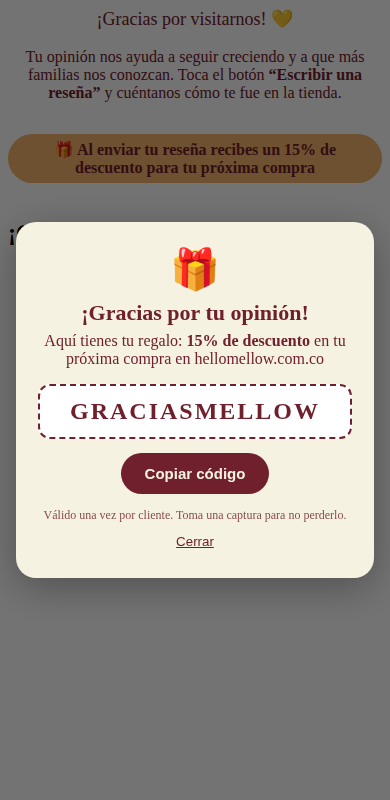
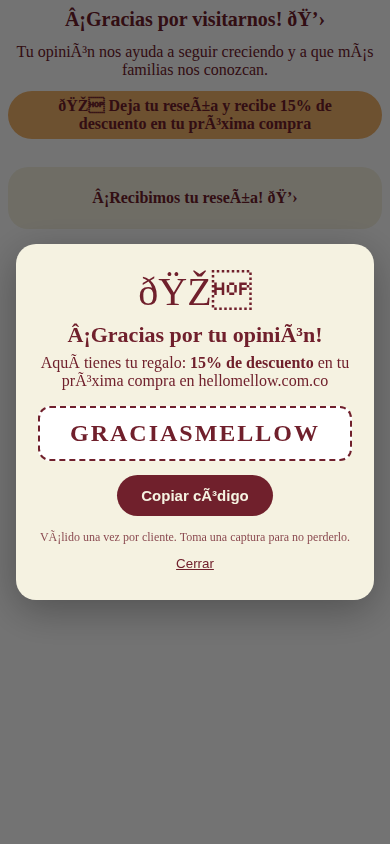
Página /opina: formulario propio de reseña con cupón garantizado
Claude-Session: https://claude.ai/code/session_014kLtJy3k3htoMbeUsWCqSX

Changed region(s): [[0.0, 0.0, 0.9846, 0.4688], [0.0308, 0.5, 0.9538, 0.75], [0.0308, 0.0312, 0.0615, 0.0625]]

diff --git a/referencia/pagina-opina.html b/referencia/pagina-opina.html
@@ -1,10 +1,48 @@
-<div style="text-align:center;max-width:560px;margin:0 auto;color:#70202c">
-<p style="font-size:18px">¡Gracias por visitarnos! 💛</p>
-<p>Tu opinión nos ayuda a seguir creciendo y a que más familias nos conozcan. Toca el botón <strong>“Escribir una reseña”</strong> y cuéntanos cómo te fue en la tienda.</p>
-<p style="background:#F2B36A;color:#70202c;display:inline-block;padding:6px 16px;border-radius:99px;font-weight:700">🎁 Al enviar tu reseña recibes un 15% de descuento para tu próxima compra</p>
+<style>
+.hm-op{max-width:520px;margin:0 auto;color:#70202c;text-align:center}
+.hm-op p{margin:0 0 12px}
+.hm-card{background:#F5F2E1;border-radius:20px;padding:22px 18px;margin-top:16px;text-align:left}
+.hm-card label{display:block;font-weight:700;margin:14px 0 6px}
+.hm-card input[type=text],.hm-card input[type=email],.hm-card textarea{width:100%;box-sizing:border-box;border:1px solid #d9cfc0;border-radius:12px;padding:12px;font-size:16px;background:#fff;color:#222}
+.hm-card textarea{min-height:110px;resize:vertical}
+.hm-stars{display:flex;flex-direction:row-reverse;justify-content:center;gap:6px}
+.hm-stars input{position:absolute;opacity:0;width:1px;height:1px}
+.hm-stars label{font-size:44px;line-height:1;color:#d9cfc0;cursor:pointer;margin:0;font-weight:400}
+.hm-stars input:checked~label,.hm-stars label:hover,.hm-stars label:hover~label{color:#F2B36A}
+.hm-btn{display:block;width:100%;margin-top:18px;background:#70202c;color:#F5F2E1;border:0;border-radius:99px;padding:15px;font-size:17px;font-weight:700;cursor:pointer}
+.hm-btn[disabled]{opacity:.6}
+.hm-err{color:#b00020;font-size:14px;margin-top:8px;display:none;text-align:center}
+.hm-pill{background:#F2B36A;display:inline-block;padding:6px 16px;border-radius:99px;font-weight:700}
+.template-page .jdgm-write-rev-link,.template-page .jdgm-rev-widg__header .jdgm-write-rev-link,.template-page [class*="write-review-button"],.template-page [class*="jdgm-write-review"]{display:none!important}
+</style>
+<div class="hm-op">
+<p style="font-size:20px;font-weight:700">¡Gracias por visitarnos! 💛</p>
+<p>Tu opinión nos ayuda a seguir creciendo y a que más familias nos conozcan.</p>
+<p class="hm-pill">🎁 Deja tu reseña y recibe 15% de descuento en tu próxima compra</p>
+<form id="hm-form" class="hm-card" method="post" action="/contact#hm-form" accept-charset="UTF-8">
+<input type="hidden" name="form_type" value="contact"><input type="hidden" name="utf8" value="✓">
+<input type="hidden" name="contact[tags]" value="resena-tienda">
+<input type="hidden" name="contact[body]" id="hm-body">
+<label style="text-align:center">¿Cómo calificarías tu visita?</label>
+<div class="hm-stars">
+<input type="radio" name="hm-r" id="hm-r5" value="5"><label for="hm-r5" title="5">★</label>
+<input type="radio" name="hm-r" id="hm-r4" value="4"><label for="hm-r4" title="4">★</label>
+<input type="radio" name="hm-r" id="hm-r3" value="3"><label for="hm-r3" title="3">★</label>
+<input type="radio" name="hm-r" id="hm-r2" value="2"><label for="hm-r2" title="2">★</label>
+<input type="radio" name="hm-r" id="hm-r1" value="1"><label for="hm-r1" title="1">★</label>
+</div>
+<label for="hm-txt">Cuéntanos tu experiencia</label>
+<textarea id="hm-txt" placeholder="¿Qué fue lo que más te gustó?" required></textarea>
+<label for="hm-name">Tu nombre</label>
+<input type="text" id="hm-name" name="contact[name]" required>
+<label for="hm-email">Tu correo</label>
+<input type="email" id="hm-email" name="contact[email]" required placeholder="No se publicará">
+<button type="submit" class="hm-btn" id="hm-send">Enviar reseña</button>
+<div class="hm-err" id="hm-err"></div>
+</form>
 </div>
 <div id="hm-cupon" style="display:none;position:fixed;inset:0;z-index:2147483647;background:rgba(0,0,0,.55);align-items:center;justify-content:center;padding:16px">
-<div style="background:#F5F2E1;color:#70202c;max-width:380px;width:100%;border-radius:20px;padding:28px 22px;text-align:center;font-family:inherit;box-shadow:0 10px 40px rgba(0,0,0,.3)">
+<div style="background:#F5F2E1;color:#70202c;max-width:380px;width:100%;border-radius:20px;padding:28px 22px;text-align:center;box-shadow:0 10px 40px rgba(0,0,0,.3)">
 <div style="font-size:40px;line-height:1">🎁</div>
 <p style="font-size:22px;font-weight:700;margin:10px 0 6px">¡Gracias por tu opinión!</p>
 <p style="margin:0 0 16px">Aquí tienes tu regalo: <strong>15% de descuento</strong> en tu próxima compra en hellomellow.com.co</p>
@@ -17,25 +55,25 @@
 <script>
 (function(){
   var c=[71,82,65,67,73,65,83,77,69,76,76,79,87].map(function(n){return String.fromCharCode(n)}).join('');
-  var re=/gracias por tu rese(ñ|n)a|rese(ñ|n)a enviada|tu rese(ñ|n)a se publicar|thank you for your review|review submitted/i;
-  var done=false, armed=false, box=document.getElementById('hm-cupon');
-  function show(){if(done)return;done=true;document.getElementById('hm-code').textContent=c;box.style.display='flex';}
-  function later(){setTimeout(show,1500);}
-  function isRev(u,m,b){u=String(u||'');m=String(m||'GET').toUpperCase();if(m!=='POST')return false;if(!/judge|jdgm/i.test(u))return false;if(/vote|helpful|impression|event|track|analytic|question|metric|log|upload|media/i.test(u))return false;return /review/i.test(u)||/review/i.test(String(b||'').slice(0,3000));}
-  /* fetch */
-  if(window.fetch){var of=window.fetch;window.fetch=function(a,o){var u=(a&&a.url)||a,m=(o&&o.method)||(a&&a.method),b=o&&o.body,hit=false;try{hit=isRev(u,m,typeof b==='string'?b:'')}catch(e){}var r=of.apply(this,arguments);if(hit)r.then(function(x){if(x&&x.ok)later();}).catch(function(){});return r;};}
-  /* XHR */
-  var X=XMLHttpRequest.prototype,oo=X.open,os=X.send;
-  X.open=function(m,u){this._hm=[m,u];return oo.apply(this,arguments);};
-  X.send=function(b){var x=this;try{if(x._hm&&isRev(x._hm[1],x._hm[0],typeof b==='string'?b:'')){x.addEventListener('load',function(){if(x.status>=200&&x.status<300)later();});}}catch(e){}return os.apply(this,arguments);};
-  /* mensajes de iframes de Judge.me */
-  window.addEventListener('message',function(e){try{if(!/judge\.me|judgeme/i.test(e.origin||''))return;var d=typeof e.data==='string'?e.data:JSON.stringify(e.data);if(/review/i.test(d)&&/submit|success|created|complete/i.test(d))later();}catch(x){}});
-  /* respaldo: mensaje de gracias visible en pantalla despues de escribir */
-  document.addEventListener('input',function(e){var t=(e.composedPath&&e.composedPath()[0])||e.target;if(t&&/TEXTAREA|INPUT/.test(t.nodeName))armed=true;},true);
-  function vis(el){if(!el)return false;if(el.checkVisibility&&!el.checkVisibility({opacityProperty:true,visibilityProperty:true}))return false;var r=el.getBoundingClientRect();if(r.width<2||r.height<2)return false;if(r.bottom<0||r.right<0||r.top>innerHeight||r.left>innerWidth)return false;var cs=getComputedStyle(el);return cs.visibility!=='hidden'&&cs.opacity!=='0'&&cs.display!=='none';}
-  function find(n,d){if(!n||d>80)return false;if(n.nodeType===3)return re.test(n.nodeValue)&&vis(n.parentElement);if(n.id==='hm-cupon'||/SCRIPT|STYLE|NOSCRIPT|TEMPLATE/.test(n.nodeName))return false;if(n.shadowRoot&&find(n.shadowRoot,d+1))return true;for(var k=n.firstChild;k;k=k.nextSibling)if(find(k,d+1))return true;return false;}
+  var f=document.getElementById('hm-form'),box=document.getElementById('hm-cupon'),err=document.getElementById('hm-err');
+  function show(){document.getElementById('hm-code').textContent=c;box.style.display='flex';}
   document.getElementById('hm-copy').onclick=function(){var b=this;function ok(){b.textContent='¡Copiado! ✓'}if(navigator.clipboard)navigator.clipboard.writeText(c).then(ok,ok);else ok();};
   document.getElementById('hm-close').onclick=function(){box.style.display='none'};
-  var t=setInterval(function(){if(done){clearInterval(t);return}if(armed&&find(document.body,0))show();},700);
+  var ok=false;try{ok=sessionStorage.getItem('hmSent')==='1'}catch(e){}
+  if(/contact_posted=true/.test(location.search)&&ok){show();f.innerHTML='<p style="text-align:center;font-weight:700;margin:0">¡Recibimos tu reseña! 💛</p>';try{sessionStorage.removeItem('hmSent')}catch(e){}}
+  f.addEventListener('submit',function(e){
+    e.preventDefault();
+    var r=f.querySelector('input[name=hm-r]:checked'),t=document.getElementById('hm-txt').value.trim(),n=document.getElementById('hm-name').value.trim(),m=document.getElementById('hm-email').value.trim();
+    if(!r){err.textContent='Elige de 1 a 5 estrellas ⭐';err.style.display='block';return;}
+    if(t.length<3){err.textContent='Cuéntanos un poquito de tu experiencia';err.style.display='block';return;}
+    err.style.display='none';var btn=document.getElementById('hm-send');btn.disabled=true;btn.textContent='Enviando…';
+    document.getElementById('hm-body').value='RESEÑA TIENDA FÍSICA\nCalificación: '+r.value+' de 5 '+'★★★★★'.slice(0,r.value)+'\nNombre: '+n+'\nCorreo: '+m+'\n\n'+t;
+    try{sessionStorage.setItem('hmSent','1')}catch(x){}
+    /* tambien se envia a Judge.me para que se publique en la tienda */
+    var p=new URLSearchParams({shop_domain:'hello-mellow-25.myshopify.com',platform:'shopify',id:'7291611742243',name:n,email:m,rating:r.value,title:t.split(/[.!?\n]/)[0].slice(0,60),body:t});
+    var done=false;function go(){if(done)return;done=true;f.submit();}
+    try{fetch('https://judge.me/api/v1/reviews',{method:'POST',mode:'no-cors',keepalive:true,body:p}).then(go,go);}catch(x){}
+    setTimeout(go,2500);
+  });
 })();
 </script>
